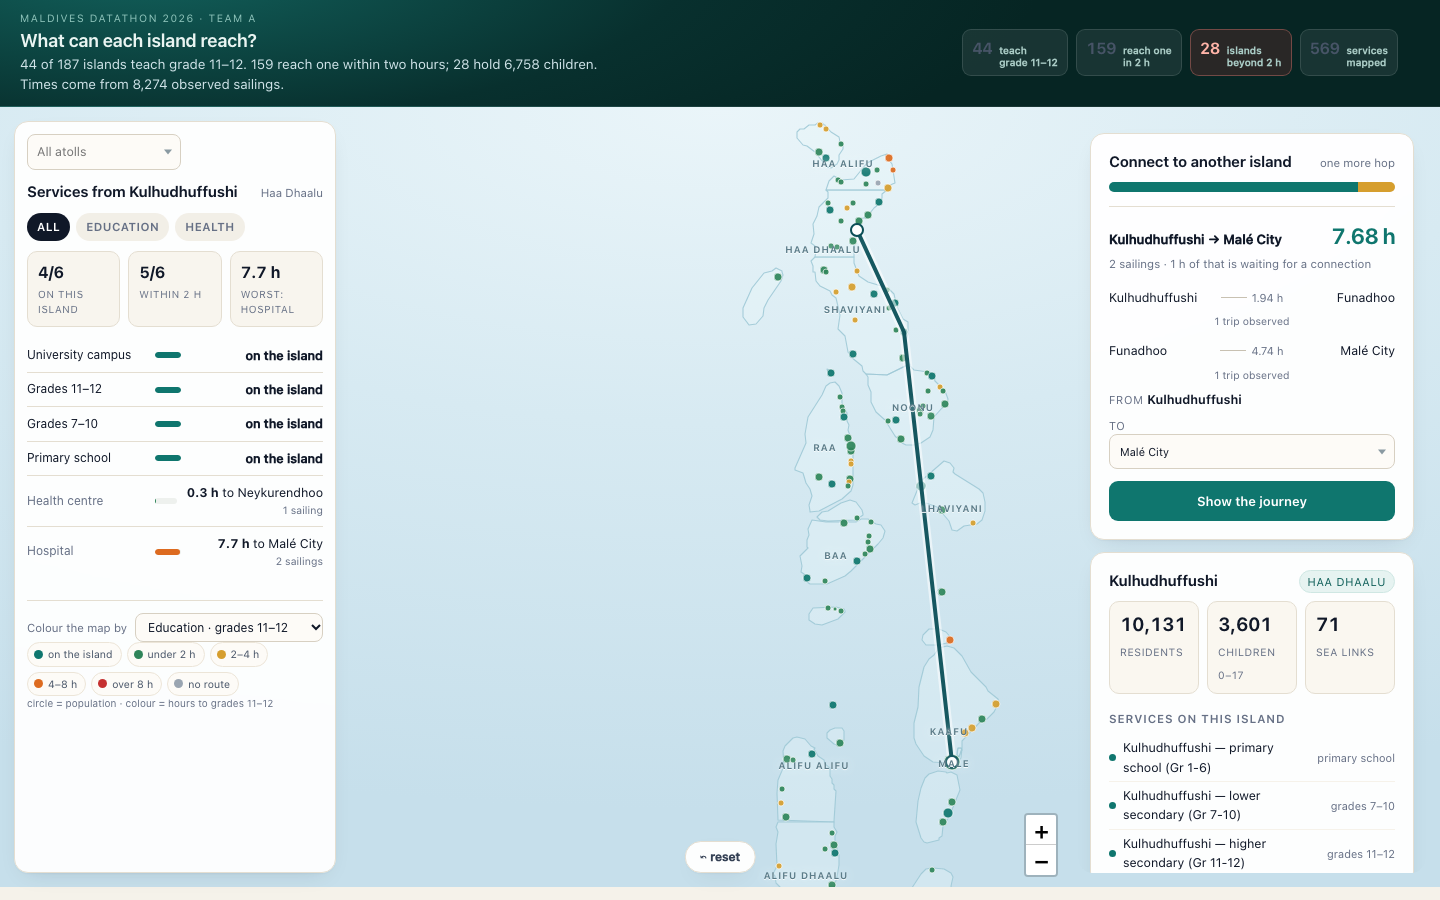
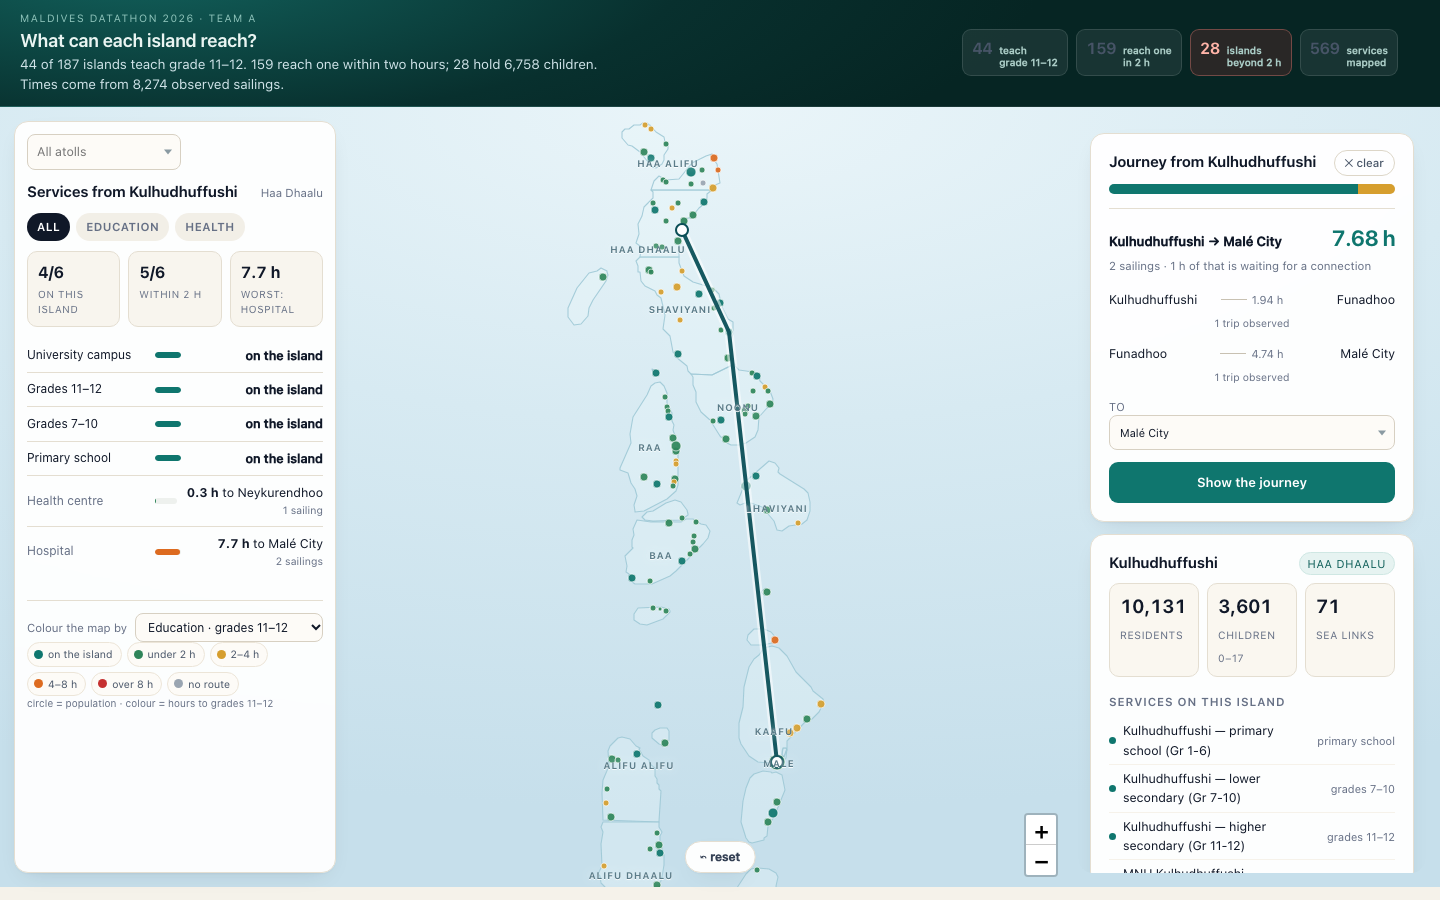
Clear control: drop the second island and the map returns to the service web

diff --git a/web/access/templates/access/index.html b/web/access/templates/access/index.html
@@ -64,7 +64,7 @@
     <div class="card" id="paircard">
       <div class="cardhead">
         <h2>Journey from <span id="fromName">{{ default_from_name }}</span></h2>
-        <span class="hint">pick a second island</span>
+        <button class="ghost" id="clearTo" type="button" hidden title="Remove the second island">✕ clear</button>
       </div>
       <div id="route-out" data-default-to="{{ default_to }}">
 
@@ -432,10 +432,28 @@ function onIslandClick(id) {
 }
 
 let autoRoute = true;
+function clearTo() {
+  setPicker("to", "");
+  el("to").value = "";
+  el("clearTo").hidden = true;
+  el("route-out").innerHTML = "";
+  clearRoute();
+  const q = new URLSearchParams(location.search);
+  q.delete("to");
+  history.replaceState({}, "", q.toString() ? "?" + q.toString() : location.pathname);
+  drawConnect();                 // the service web comes back when the second island goes away
+}
+
 function submitRoute() {
   const wasAuto = autoRoute;
   autoRoute = false;
   const from = state.selId || el("from").value, to = el("to").value;
+  if (!to || to === from) {                    // nothing picked yet: open the picker instead of failing quietly
+    const t = el("toCombo") && el("toCombo").querySelector(".combotext");
+    if (t) { t.focus(); t.dispatchEvent(new Event("input", {bubbles: true})); }
+    return;
+  }
+  el("clearTo").hidden = false;
   htmx.ajax("GET", `/route/?from=${from}&to=${to}`, {target:"#route-out", swap:"innerHTML"});
   if (!wasAuto) history.replaceState({}, "", `?from=${from}&to=${to}`);
 }
